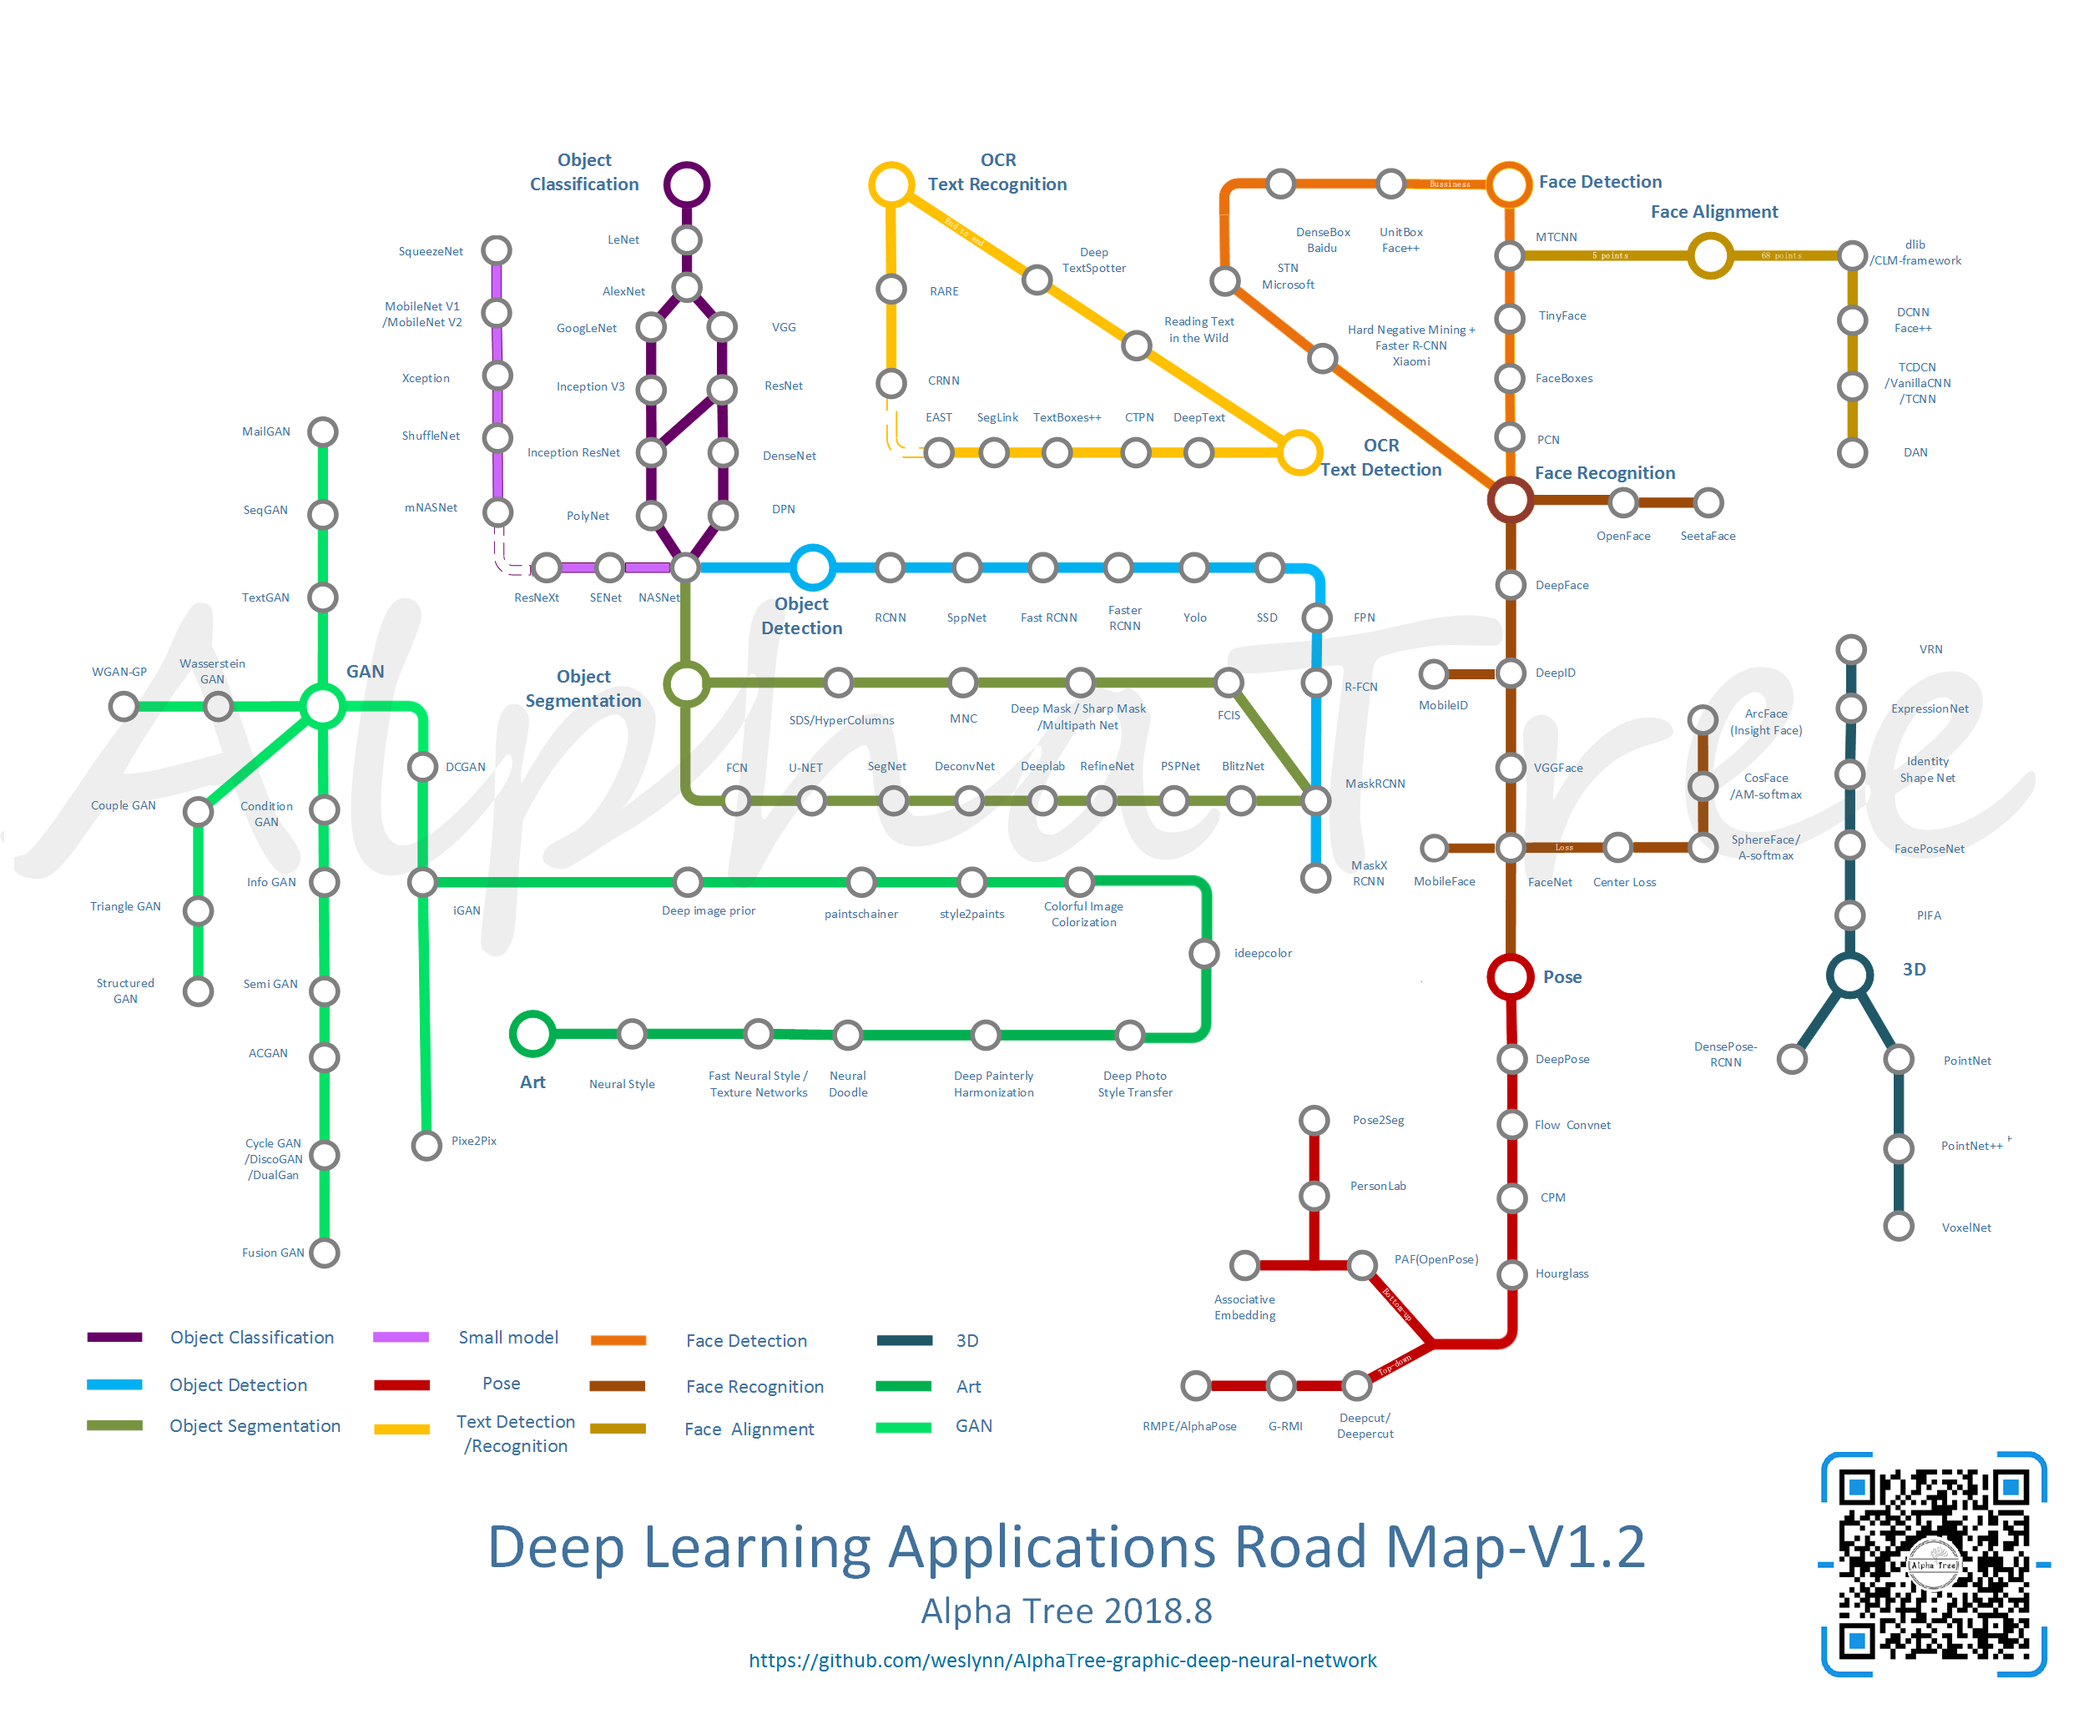
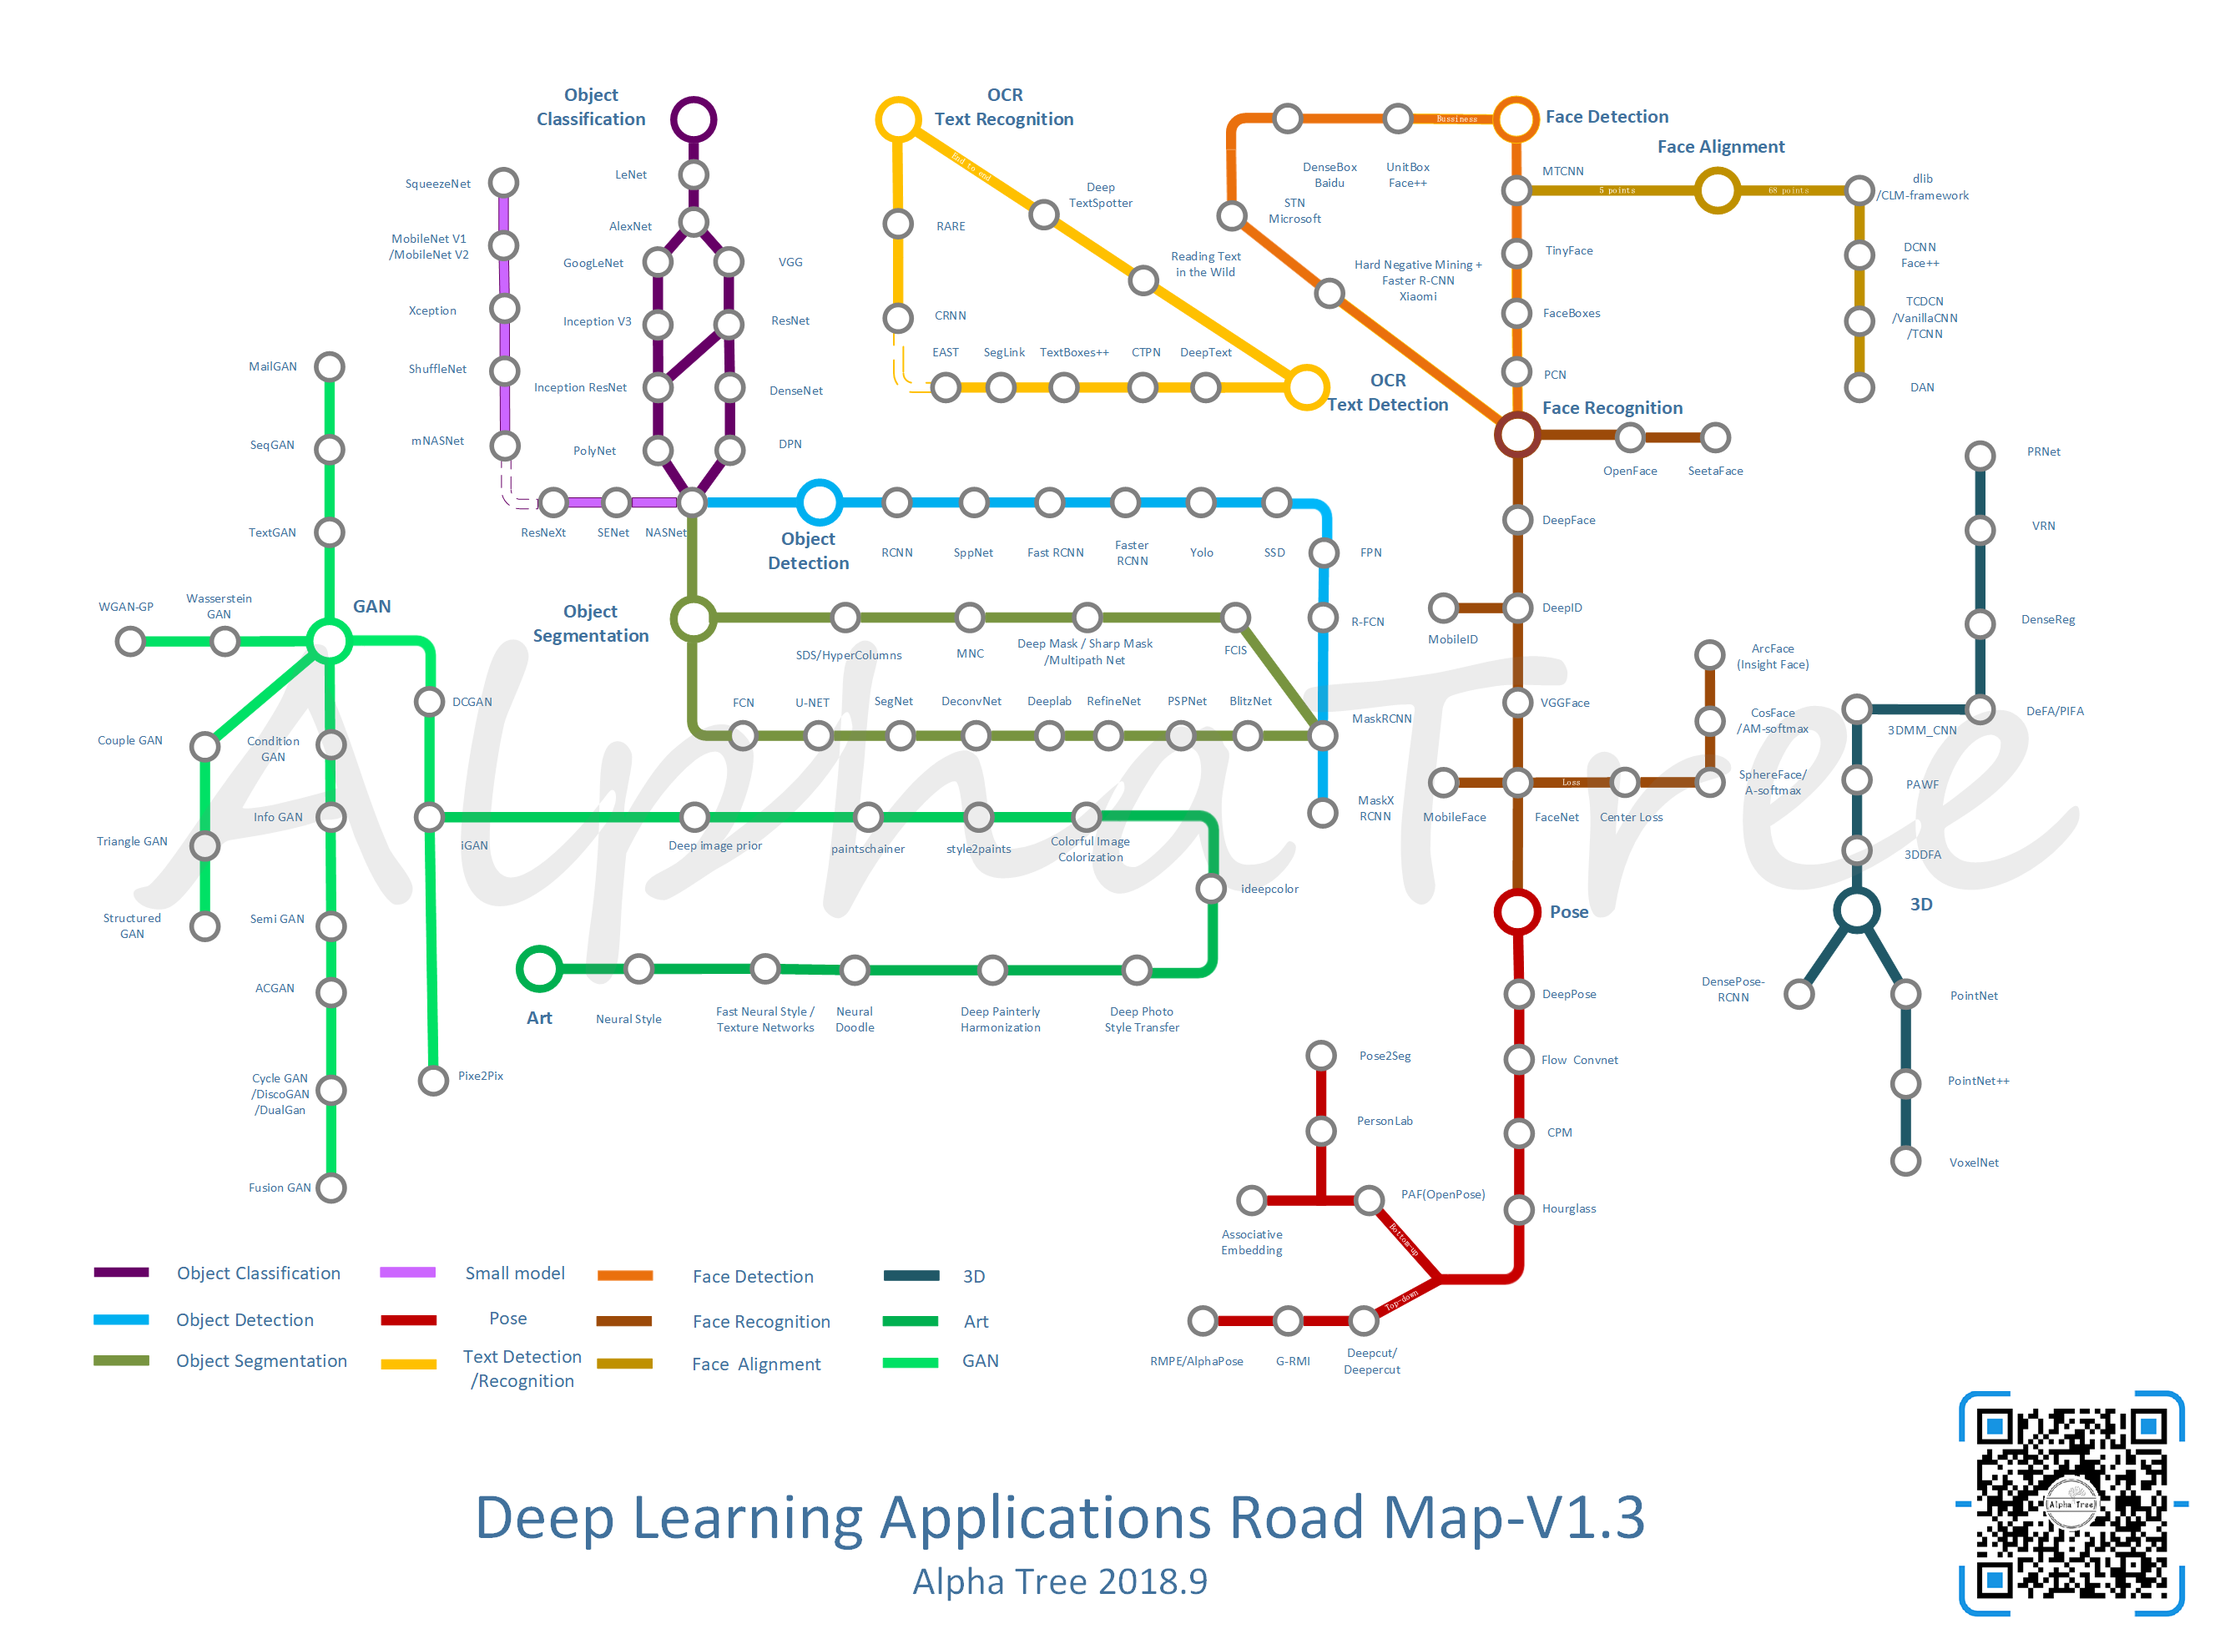
map1.3

diff --git a/README.md b/README.md
@@ -16,6 +16,8 @@
 2018/08/10 图上加入MnasNet ，人脸部分加入 mobilefacenet mobileID
 
 2018/09/04 修正3D人脸部分，整理16 17年的部分知名开源成果 将加入密集人脸对齐部分的算法 和 之前的cnn获取3dmm参数算法分开  。18年开始 主要研究在gan对侧脸部分的正脸生成，暂未整理 可看后续发展。 
+
+
 其他：
 Face ： mtcnn 
 
@@ -30,10 +32,10 @@ Object Detection：ssd
 
 
 
-<a href="https://raw.githubusercontent.com/weslynn/graphic-deep-neural-network/master/map/mapclean_1.2.png"> <img src="https://github.com/weslynn/graphic-deep-neural-network/blob/master/map/mapclean_1.2.png" width="1200"> </a>
+<a href="https://raw.githubusercontent.com/weslynn/graphic-deep-neural-network/master/map/mapclean_1.3.png"> <img src="https://github.com/weslynn/graphic-deep-neural-network/blob/master/map/mapclean_1.3.png" width="1200"> </a>
 
 
-[大图链接](https://raw.githubusercontent.com/weslynn/graphic-deep-neural-network/master/map/mapclean_1.2.png)
+[大图链接](https://raw.githubusercontent.com/weslynn/graphic-deep-neural-network/master/map/mapclean_1.3.png)
 
 
 现在主要有如下方向
